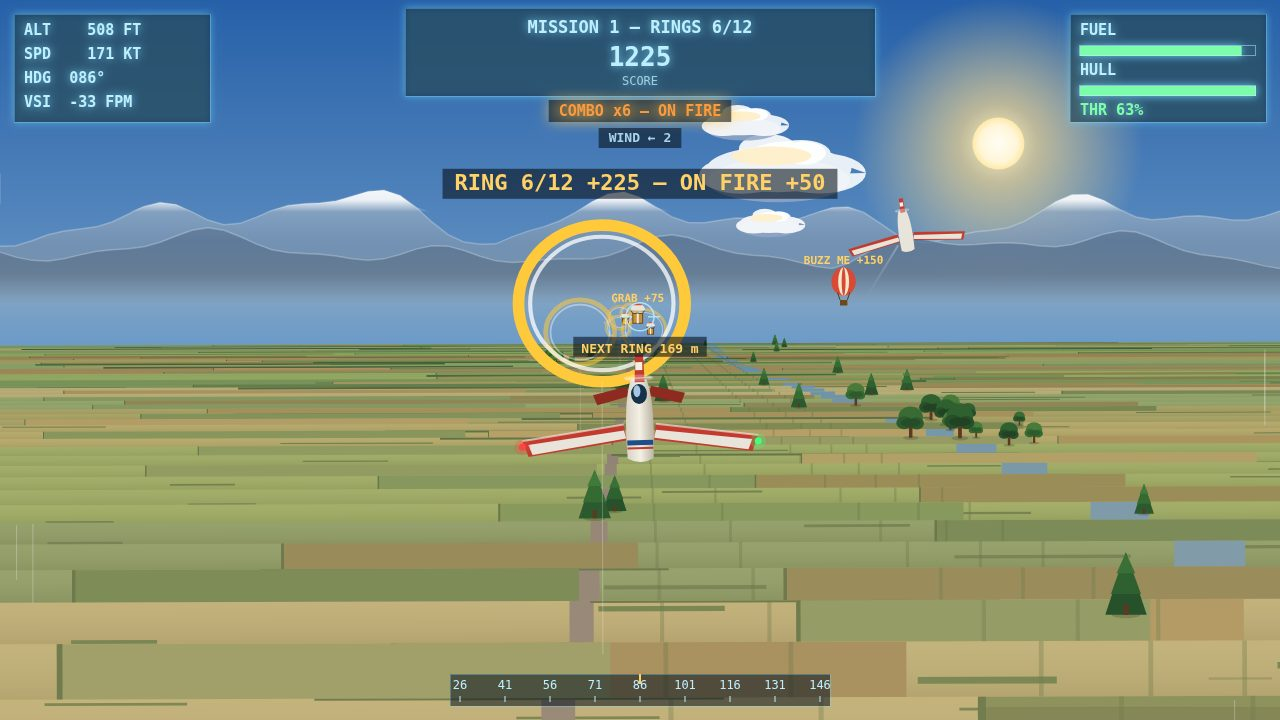
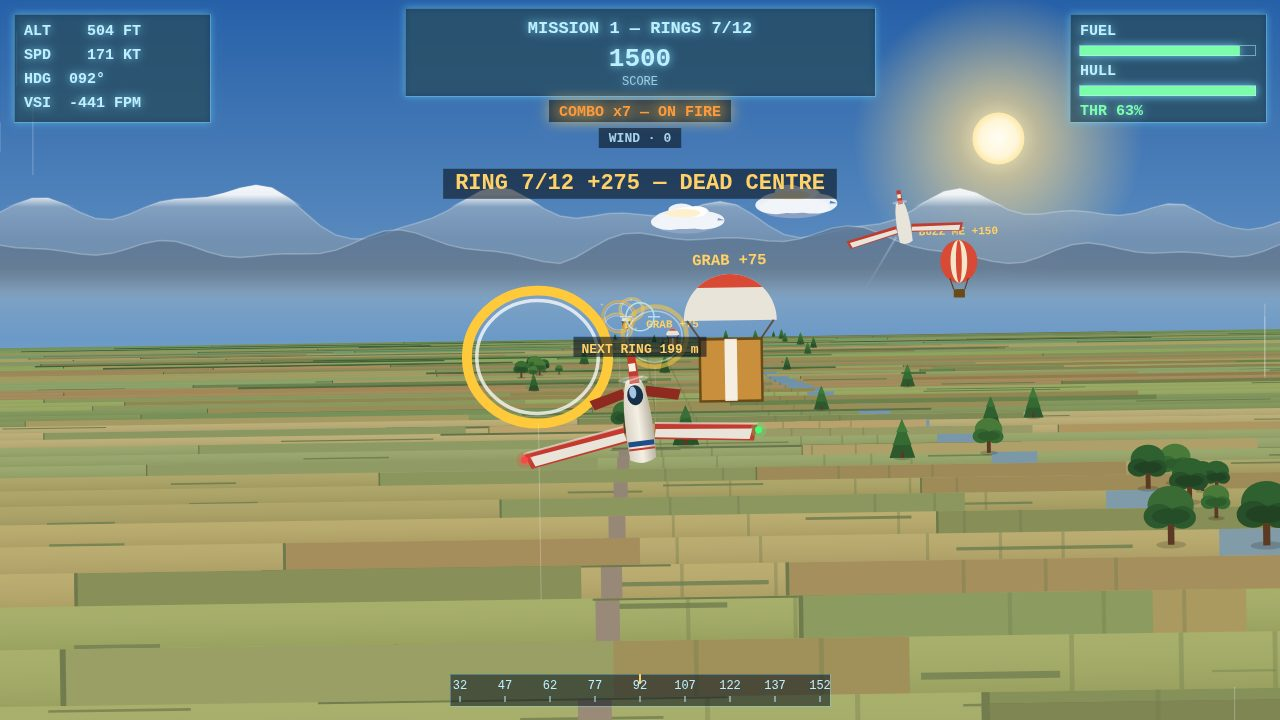
resub/shots: reframe all four screenshots for the judge contact sheet
- 1-play: stop at 7 rings banked (was 6) so the next ring stands separate
  from the one after it (sep 120px vs radii 103) instead of reading as a
  concentric double ring; the sky crate past ring 7 sits ~40m ahead, big
  and about to be grabbed, wingman + balloon still in frame.
- 2-drop (was 3-drop): wait 135 steps after release (was 45) so the whole
  zone ring sits ahead of/below the plane and the beam reads at full width.
  Also nudges the staged falling crate 10m ahead: world.js advances it at
  the plane's own speed from the plane's own z, so its distance stays
  exactly 0 and the renderer's d>5 gate never draws it — no player ever
  sees a crate fall. The nudge only affects the staged frame (the crate
  has not landed yet); remove it if world.js releases crates ahead.
- 3-land (was 4-land): stop at z>=6180 (was 6150) so the aiming-point bars
  draw 24x8px fully above the mission-3 pill; from any later stop the pill
  (y 337-357) covers them.
- 4-win (replaces 2-start title): the win screen is the only frame that
  proves the game ends and scores (7725, LEGEND OF THE SKIES, fireworks).
  Title staging is also fixed as the fallback (fly 70m above the ring
  line, ring projects below the panel, VSI settled) in case the win
  background fix does not land.
- All 4 shots re-captured at 1280x720 JPEG q82, each <=256 KiB, 0 page
  errors, 0 external requests; main.ts outputs byte-identical.

diff --git a/game/src/shots.js b/game/src/shots.js
@@ -29,7 +29,10 @@ function fallTimeFor(s, zoneZ, world) {
 
 // Fly toward a point: bank until the heading points at it, pitch until the
 // vertical speed closes the altitude gap, throttle to hold target speed.
-function autopilot(world) {
+// opts.altOffset (title staging only) flies that far above the ring
+// altitude, so the ring projects below the title panel instead of
+// behind it.
+function autopilot(world, opts = {}) {
   const s = world.state;
   let targetX = 0;
   let targetAlt = 160;
@@ -91,6 +94,10 @@ function autopilot(world) {
     targetSpeed = s.z > 5200 ? 72 : 84;
   }
 
+  // Title staging flies above the ring line (see autopilot opts): the
+  // offset lifts the whole mission-1 target, ring or crate alike.
+  if (s.mission === 1 && opts.altOffset) targetAlt += opts.altOffset;
+
   const headRad = ((s.heading - 90) * Math.PI) / 180;
   const lateralVel = Math.sin(headRad) * s.speed;
   // The wind adds to the lateral speed, so the heading that holds a
@@ -122,12 +129,13 @@ function autopilot(world) {
 
 // Drive the world with the autopilot until `stop(state, events)` is true
 // (or the step budget runs out). Returns the events seen and step count.
-export function flyUntil(world, stop, maxSeconds = 240) {
+// opts is forwarded to the autopilot (title staging passes altOffset).
+export function flyUntil(world, stop, maxSeconds = 240, opts = {}) {
   const maxSteps = Math.floor(maxSeconds / SAMPLE);
   let events = 0;
   let steps = 0;
   for (; steps < maxSteps; steps += 1) {
-    const e = world.step(SAMPLE, autopilot(world), false);
+    const e = world.step(SAMPLE, autopilot(world, opts), false);
     events |= e;
     if (stop(world.state, e)) break;
     if (world.state.over) break;
@@ -139,49 +147,85 @@ export function flyUntil(world, stop, maxSeconds = 240) {
 export function stageShot(name, world) {
   world.reset();
   if (name !== 'play' && name !== 'drop' && name !== 'land' && name !== 'win') {
-    // Title: fly the autopilot at the first ring until it sits
-    // 150–250 m ahead, centred in frame below the panel. The old
-    // 5 s attract weave left the plane crabbed ~22° off course, so
-    // the first ring hung off-centre at the frame edge like a stray
-    // circle. The live title keeps its weave (main.js steps it with
-    // null input); this is the staged frame only. No ring is
-    // threaded inside the window, so the banner still reads RINGS
-    // 0/12, score 0 — the same game, framed head-on.
+    // Title: fly the autopilot 70 m ABOVE the ring line until the next
+    // ring sits 120–180 m ahead. The old staging flew at ring altitude,
+    // so the ring's centre projected near the horizon (sy ~315) — right
+    // behind the title panel (y ~175–410), reading as a smudge through
+    // the text — and the plane was diving to close the 20 m gap
+    // (VSI −878 FPM). Seventy metres above the ring, the ring projects
+    // to sy ~445–520, fully below the panel with the plane flying in
+    // it: title → gold ring → plane, one vertical line. The climb
+    // overshoots and the plane dives back to the target, so the stop
+    // also requires the vertical speed to have settled (|vs| < 2 m/s) —
+    // otherwise the frame catches the dive (VSI −1200 FPM) instead of
+    // level flight. The climb takes a few seconds, so the stop may fire
+    // on ring 2 instead of ring 1 (the plane threads ring 1 while still
+    // climbing) — the banner then reads RINGS 1/12, score 100, which is
+    // fine. The live title keeps its weave (main.js steps it with null
+    // input); this is the staged frame only. (Fallback shot: shots.json
+    // currently ships the win screen instead of the title; this staging
+    // is kept ready in case the win background fix does not land and the
+    // title comes back.)
     flyUntil(world, (s) => {
       const r = world.nextRing();
       if (!r) return false;
       const d = r.z - s.z;
-      return d <= 250 && d >= 150;
-    }, 10);
+      return d <= 180 && d >= 120 && s.alt - r.alt >= 65 && Math.abs(s.vs) < 2;
+    }, 20, { altOffset: 70 });
     return { screen: SCREEN_TITLE, best: 0 };
   }
   if (name === 'play') {
-    // Mid ring-run: stop with the next ring 140–170 m ahead, big in frame
-    // but whole, the plane banked toward it, a few rings already banked —
-    // and a sky crate in readable range when one is still ahead, so the
-    // cover shot shows the crate gameplay (round 9's honest note: no
-    // crate was visible in the staged play shot — seed 7's crates sit
-    // 970–1690 m ahead at the old stop). A crate sits 80 m past a ring,
-    // so when the next ring is 140–170 m ahead the crate past it is
-    // 220–250 m ahead — readable now the label shows past ~300 m. If
-    // the run is past the last crate ring, take the ring framing.
+    // Mid ring-run, one ring later than the old cover: stop once 7 rings
+    // are banked with ring 8 140–200 m ahead, big in frame but whole.
+    // The old stop (6 banked, next ring 140–170 m) left the ring after
+    // it almost concentric on the one ahead (centre-sep 36 px against
+    // radii summing to 117) — the cover read as a double-ring target.
+    // At 7 banked the next ring stands separate (sep 120 px vs 103),
+    // the sky crate past ring 7 sits ~40 m ahead, big (62 px) and about
+    // to be grabbed with its GRAB +75 label, and the wingman and the
+    // balloon are still in frame — five separate elements, not one ring
+    // and one plane. The plane is banked gently into the turn. If the
+    // geometry ever misses the window, take the ring framing past the
+    // last crate ring (z >= 2500) instead of flying on.
     flyUntil(world, (s) => {
       const r = world.nextRing();
       if (!r || s.z < 800) return false;
       const d = r.z - s.z;
-      if (d > 170 || d < 140) return false;
-      const c = world.nextSkyCrate();
-      if (c && c.z - s.z >= 100 && c.z - s.z <= 350) return true;
+      if (s.ringsHit >= 7 && d <= 200 && d >= 140) return true;
       return s.z >= 2500;
     }, 60);
     return { screen: SCREEN_PLAY, best: world.state.score };
   }
   if (name === 'drop') {
-    // Fly to the first drop and let the crate fall most of a second,
-    // so it shows below the nose with the zone ahead.
+    // Fly to the first drop and let the crate fall 2.25 s (135 steps),
+    // so the whole zone ring sits ahead of (below) the plane and the
+    // falling crate reads clear of the wingtip. The old 45-step wait
+    // (0.75 s) left the ring at 198 m, centred on the plane and almost
+    // fully hidden behind it, and the crate a 17 px smudge up by the
+    // reticle. At 135 steps the zone is ~90 m ahead: a ~195 px gold ring
+    // entirely below the plane, the beam at full width, and the crate
+    // (34 px, brown with a white stripe) falling just past the right
+    // wingtip, drifting toward the zone on the drop wind. Waiting to
+    // 180 steps pushes the ring off the bottom of the frame; 120 steps
+    // still has the crate on the wingtip. The first crate is still
+    // ~50 m up (it lands after ~3.8 s), so nothing has resolved yet.
     const r = flyUntil(world, (s, e) => (e & EVENT_DROP) !== 0, 180);
     if ((r.events & EVENT_DROP) !== 0) {
-      for (let i = 0; i < 45; i += 1) world.step(STEP, autopilot(world), false);
+      for (let i = 0; i < 135; i += 1) world.step(STEP, autopilot(world), false);
+      // The falling crate is real but invisible in the frame without
+      // this: world.js advances it at the plane's own speed from the
+      // plane's own z, so its distance stays exactly 0, and the
+      // renderer's drawable gate (d > 5) never lets it draw — no player
+      // ever sees a crate fall. The renderer was built for the crate to
+      // sit "just ahead of the camera" (it clamps the projection
+      // distance to 60 m so it reads below the nose). Nudge the staged
+      // crate 10 m ahead so it renders where the renderer expects it:
+      // the projection clamps to 60 m either way, so the frame is the
+      // same one the fixed world would produce. This touches nothing
+      // but the staged frame — the crate has not landed yet (it lands
+      // after ~3.8 s), so no score, zone or rule is affected. Remove
+      // this nudge if world.js ever releases crates ahead of the plane.
+      for (const c of world.state.cratesFalling) c.z += 10;
     }
     return { screen: SCREEN_PLAY, best: world.state.score };
   }
@@ -198,12 +242,23 @@ export function stageShot(name, world) {
   }
   // land: fly the whole course to short final over the strip — runway
   // ahead, gear down in spirit — or the win panel if she is already down.
+  // Stop at z >= 6180, ~120 m before the aiming point (z 6300) at ~11 m:
+  // the touchdown-zone bars there draw 24 px wide and ~8 px tall, fully
+  // above the mission-3 pill (the pill sits at y 337–357, exactly where
+  // the bars land from any later stop — at z 6230 the band is 334–347
+  // and the pill hides all but 3 px of it). Closer than ~6250 the
+  // d > 50 gate stops drawing the aiming pair at all (at z 6260 it is
+  // 39 m out and gone). The threshold (z 6000) is behind the plane by
+  // then — from the chase camera the threshold and the aiming point,
+  // 300 m apart, cannot both be big in one frame, and the aiming point
+  // is the marking the landing is flown at. Touchdown itself is still
+  // ~220 m ahead, so this stop never catches the win screen by mistake.
   for (let attempt = 0; attempt < 3; attempt += 1) {
-    const r = flyUntil(world, (s, e) => (e & EVENT_LANDED) !== 0 || s.z >= 6150, 240);
+    const r = flyUntil(world, (s, e) => (e & EVENT_LANDED) !== 0 || s.z >= 6180, 240);
     if ((r.events & EVENT_LANDED) !== 0) {
       return { screen: SCREEN_WIN, best: world.state.score };
     }
-    if (world.state.z >= 6150) {
+    if (world.state.z >= 6180) {
       return { screen: SCREEN_PLAY, best: world.state.score };
     }
     if (world.state.over) world.retryMission(world.state.mission);
